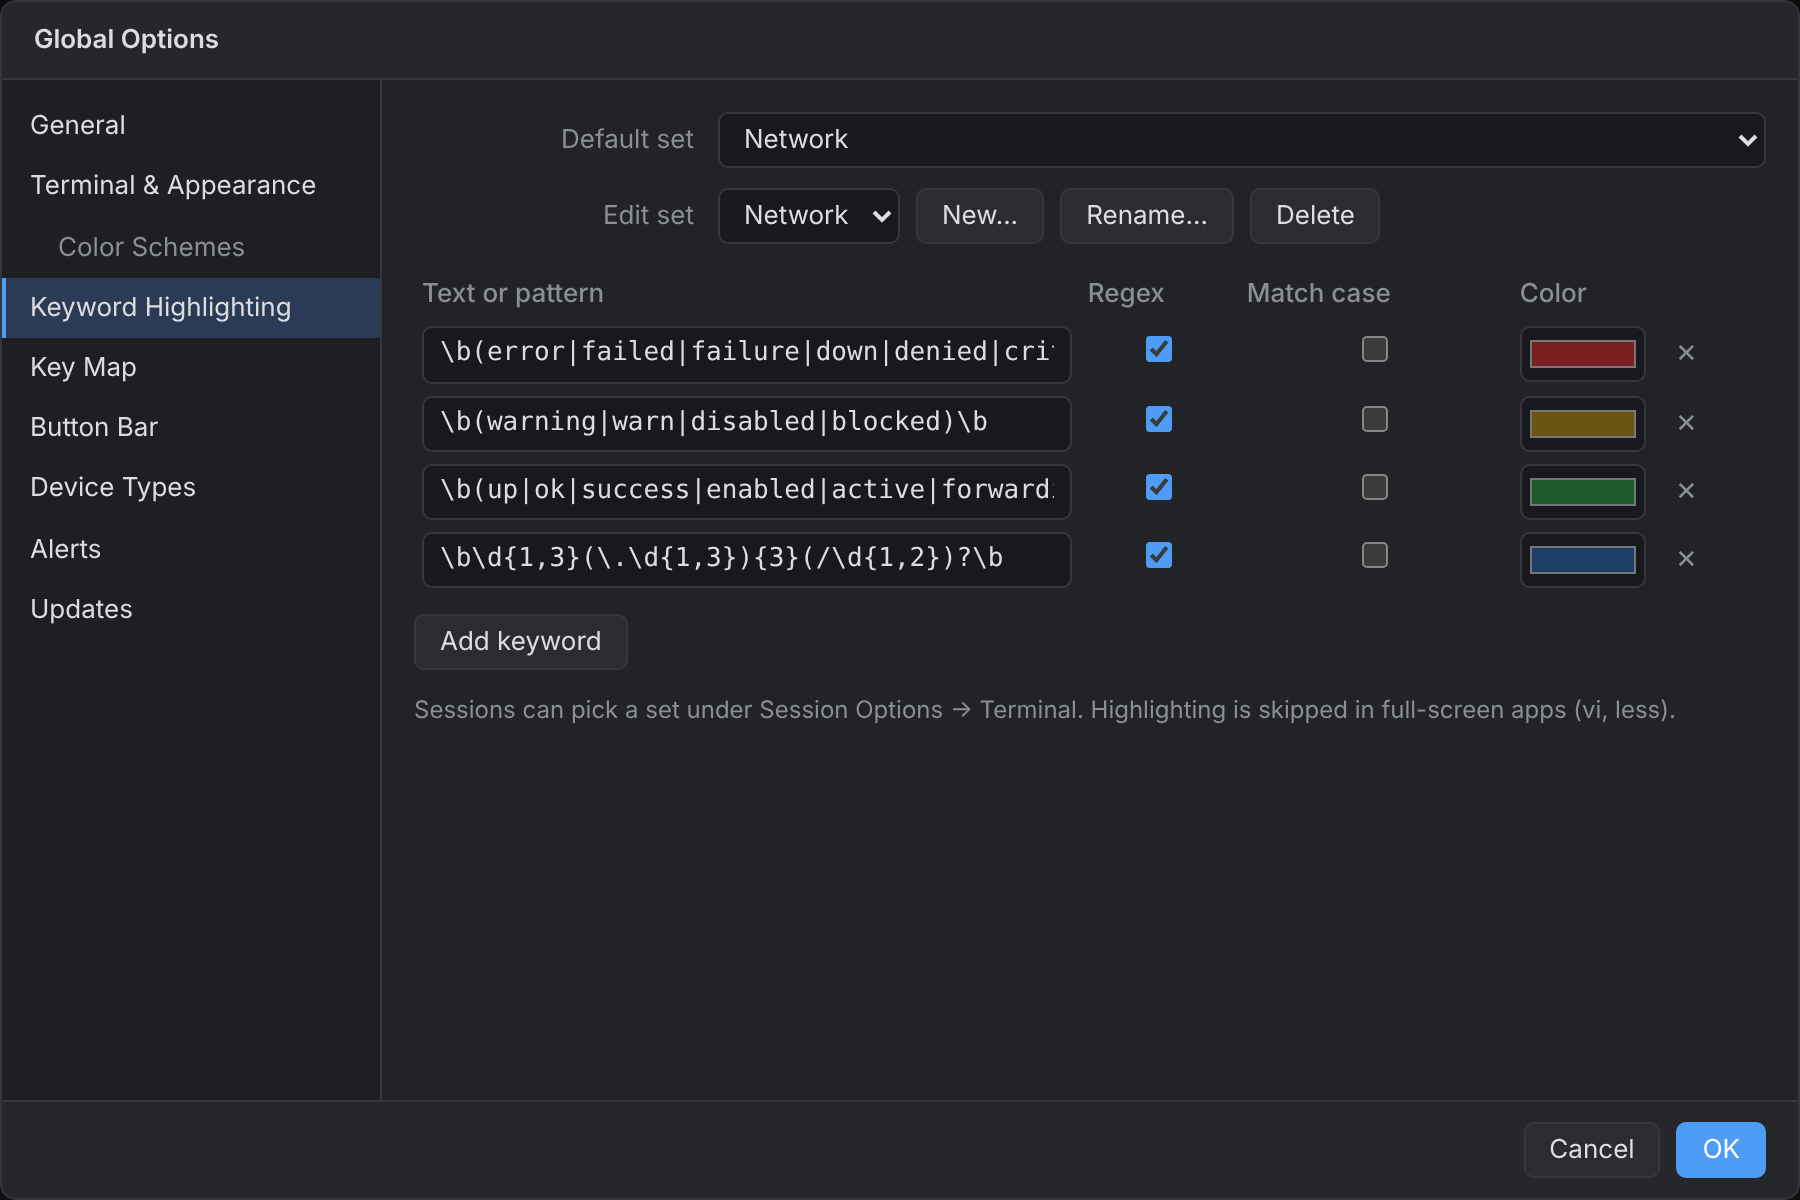
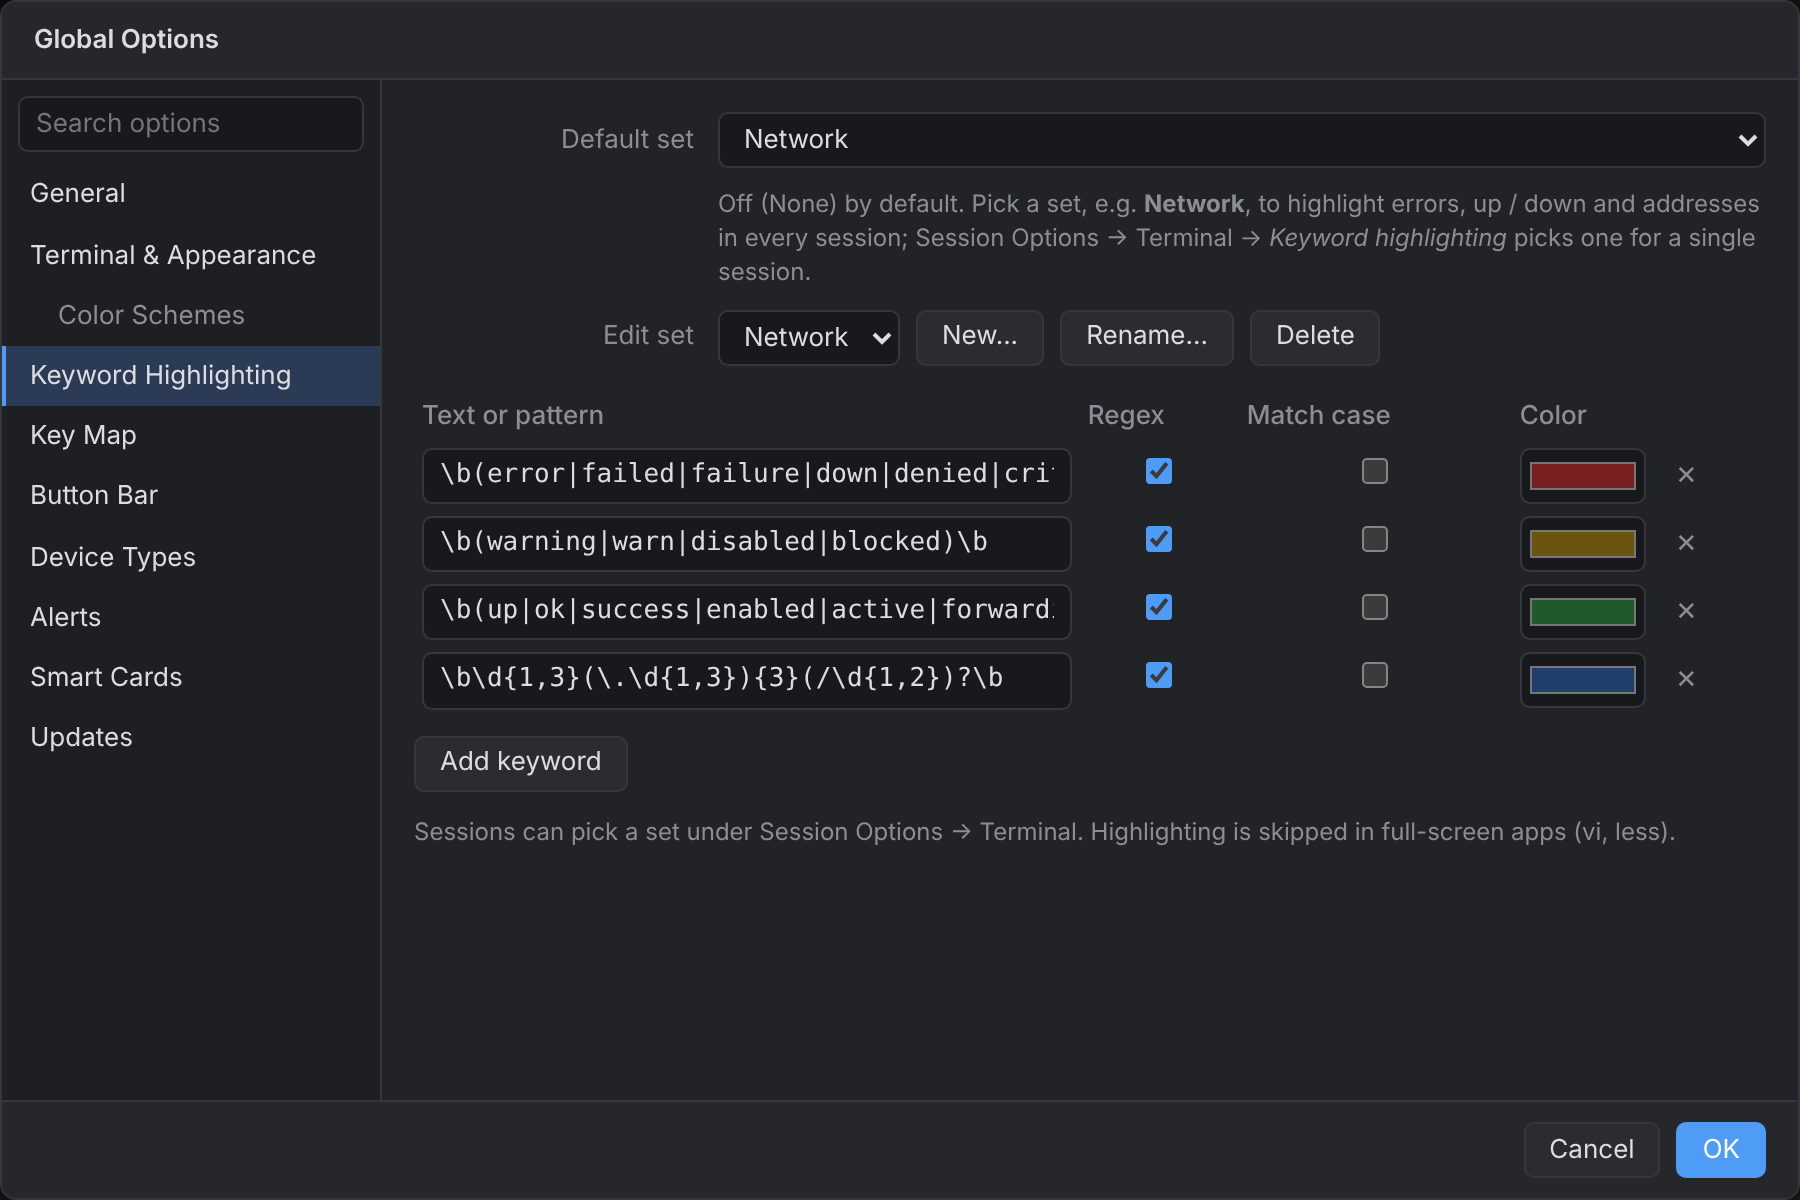
0.20.3: highlighting off by default, discovery progress counts retries separately

diff --git a/frontend/src/app/dialogs/discover-dialog.ts b/frontend/src/app/dialogs/discover-dialog.ts
@@ -58,7 +58,7 @@ const ACK_KEY = 'termwright.discoverAck';
         <div class="bar">
           @if (total()) {
             <progress [max]="total()" [value]="done()"></progress>
-            <span class="hint">{{ done() }} / {{ total() }} addresses · {{ rows().length }} found{{ running() ? '' : stopped() ? ' · stopped' : ' · done' }}{{ rows().length ? ' · double-click a device to connect' : '' }}</span>
+            <span class="hint">{{ done() }} / {{ total() }} addresses{{ again().total ? (running() ? ' · checking ' + again().total + ' device' + (again().total === 1 ? '' : 's') + ' again, more slowly (' + again().done + ' / ' + again().total + ')' : ' · ' + again().total + ' checked again') : '' }} · {{ rows().length }} found{{ running() ? '' : stopped() ? ' · stopped' : ' · done' }}{{ rows().length ? ' · double-click a device to connect' : '' }}</span>
           }
           <span class="spacer"></span>
           @if (rows().length) {
@@ -219,6 +219,8 @@ export class DiscoverDialog implements OnDestroy {
   readonly byType = signal(!!this.prefs.byType);
   readonly running = signal(false);
   readonly stopped = signal(false);
+  /** The second, slower look at devices that showed no login port. */
+  readonly again = signal({ done: 0, total: 0 });
   readonly total = signal(0);
   readonly done = signal(0);
   readonly rows = signal<Row[]>([]);
@@ -354,6 +356,7 @@ export class DiscoverDialog implements OnDestroy {
     this.err.set('');
     this.rows.set([]);
     this.stopped.set(false);
+    this.again.set({ done: 0, total: 0 });
     this.unsub.forEach(u => u());
     this.unsub = [];
     try {
@@ -366,6 +369,7 @@ export class DiscoverDialog implements OnDestroy {
       this.unsub.push(
         this.backend.on('discover:found:' + r.id, (d: DiscoverResult) => this.found(d)),
         this.backend.on('discover:progress:' + r.id, (p: { done: number }) => this.done.set(p.done)),
+        this.backend.on('discover:again:' + r.id, (p: { done: number; total: number }) => this.again.set(p)),
         this.backend.on('discover:done:' + r.id, (stopped: boolean) => { this.running.set(false); this.stopped.set(!!stopped); }),
       );
     } catch (e) { this.err.set(errText(e)); }

diff --git a/frontend/src/app/dialogs/options-dialog.ts b/frontend/src/app/dialogs/options-dialog.ts
@@ -186,6 +186,7 @@ const PAGE_NAMES: Record<Page, string> = { general: 'General', terminal: 'Termin
                   <option value="">None</option>
                   @for (k of s.keywordSets ?? []; track $index) { <option [value]="k.name">{{ k.name }}</option> }
                 </select>
+                <label></label><div class="hint">Off (None) by default. Pick a set, e.g. <b>Network</b>, to highlight errors, up / down and addresses in every session; Session Options → Terminal → <i>Keyword highlighting</i> picks one for a single session.</div>
                 <label>Edit set</label>
                 <div class="row">
                   <select name="kse" [ngModel]="kwIndex()" (ngModelChange)="kwIndex.set(+$event)">

diff --git a/internal/config/config.go b/internal/config/config.go
@@ -65,6 +65,7 @@ type Settings struct {
 	FontSize             int                  `json:"fontSize"`
 	Theme                string               `json:"theme"`               // ui theme: dark | light | system
 	ThemeFollowsSystem   bool                 `json:"themeFollowsSystem"`  // set once when the default became "system" (0.20.1)
+	HighlightOptIn       bool                 `json:"highlightOptIn"`      // set once when keyword highlighting became off by default (0.20.3)
 	HideTerminalBar      bool                 `json:"hideTerminalBar"`     // no bar (timestamps, auto scroll, clear) under SSH / Telnet / local tabs
 	TerminalScheme       string               `json:"terminalScheme"`      // scheme name or "Auto" (follow the UI theme)
 	ForceTermScheme      bool                 `json:"forceTerminalScheme"` // global scheme wins over session schemes
@@ -294,7 +295,7 @@ func Defaults(dataDir string) Settings {
 				{Text: `\b\d{1,3}(\.\d{1,3}){3}(/\d{1,2})?\b`, Regex: true, Color: "#1f3f6b"},
 			},
 		}},
-		DefaultKeywordSet:  "Network",
+		DefaultKeywordSet:  "", // off; the Network set is there to pick
 		Bookmarks:          []Bookmark{},
 		UpdateChannel:      "stable",
 		SFTPCwdAuto:        true,
@@ -378,6 +379,11 @@ func Load(dataDir string) (*Manager, error) {
 	// system (once - a theme chosen afterwards stays).
 	if !m.cur.ThemeFollowsSystem {
 		m.cur.Theme, m.cur.ThemeFollowsSystem, changed = "system", true, true
+	}
+	// Keyword highlighting is off by default since 0.20.3 (once - a default
+	// set picked afterwards stays).
+	if !m.cur.HighlightOptIn {
+		m.cur.DefaultKeywordSet, m.cur.HighlightOptIn, changed = "", true, true
 	}
 	if changed {
 		_ = m.Save(m.cur)

diff --git a/internal/discover/scan.go b/internal/discover/scan.go
@@ -38,6 +38,9 @@ type Options struct {
 	NoWeb     bool // skip reading web pages
 	NoARP     bool // skip the neighbour (ARP) table
 	OUI       OUI  // MAC vendor table (nil = none)
+	// Again is told the progress of the second, slower look at devices that
+	// answered ARP but showed no login port (after the main pass).
+	Again func(done, total int)
 }
 
 // Result describes one device that answered.
@@ -105,6 +108,7 @@ func Scan(ctx context.Context, addrs []netip.Addr, opt Options, found func(Resul
 	self := localAddrs()
 	var mu sync.Mutex
 	done, total := 0, len(addrs)
+	report := progress // the second look reports to opt.Again instead
 	results := map[netip.Addr]*Result{}
 	inRange := map[netip.Addr]bool{}
 	for _, a := range addrs {
@@ -144,8 +148,8 @@ func Scan(ctx context.Context, addrs []netip.Addr, opt Options, found func(Resul
 						found(r)
 					}
 					done++
-					if progress != nil {
-						progress(done, total)
+					if report != nil {
+						report(done, total)
 					}
 					mu.Unlock()
 				}
@@ -193,7 +197,7 @@ func Scan(ctx context.Context, addrs []netip.Addr, opt Options, found func(Resul
 			slow.Parallel = 16
 		}
 		mu.Lock()
-		total += len(again)
+		done, total, report = 0, len(again), opt.Again
 		mu.Unlock()
 		wake(ctx, again, 800*time.Millisecond)
 		run(again, slow)

diff --git a/discover_app.go b/discover_app.go
@@ -52,7 +52,10 @@ func (a *App) DiscoverStart(spec, community string) (map[string]any, error) {
 			cancel()
 			wruntime.EventsEmit(a.ctx, "discover:done:"+id, stopped)
 		}()
-		discover.Scan(ctx, addrs, discover.Options{Community: community, OUI: a.ouiTable()},
+		discover.Scan(ctx, addrs, discover.Options{Community: community, OUI: a.ouiTable(),
+			Again: func(done, total int) {
+				wruntime.EventsEmit(a.ctx, "discover:again:"+id, map[string]int{"done": done, "total": total})
+			}},
 			func(r discover.Result) { wruntime.EventsEmit(a.ctx, "discover:found:"+id, r) },
 			func(done, total int) {
 				wruntime.EventsEmit(a.ctx, "discover:progress:"+id, map[string]int{"done": done, "total": total})

diff --git a/docs/USER_GUIDE.md b/docs/USER_GUIDE.md
@@ -794,7 +794,7 @@ Device types can use a reference too, so a whole fleet logs in with a password t
 ![Color scheme editor](screenshots/schemes.png)
 
 - **Font / cursor**: Global Options → Terminal & Appearance (font family, size, cursor style, blink, scrollback); per-session font in Session Options → Terminal.
-- **Keyword highlighting**: Global Options → Keyword Highlighting. Create sets of words or regular expressions with colors; choose the default set, or a set per session (Session Options → Terminal). The built-in *Network* set marks errors/down (red), warnings (amber), up/ok (green) and IPv4 addresses (blue). Highlighting is skipped in full-screen programs such as `vi` or `less`.
+- **Keyword highlighting** (off by default): Global Options → Keyword Highlighting. Create sets of words or regular expressions with colors; choose the default set (*None* = off), or a set per session (Session Options → Terminal). Only the rows on screen are highlighted, so long sessions stay fast. The built-in *Network* set marks errors/down (red), warnings (amber), up/ok (green) and IPv4 addresses (blue). Highlighting is skipped in full-screen programs such as `vi` or `less`.
 
 ![Keyword Highlighting](screenshots/keywords.png)
 
@@ -939,4 +939,4 @@ Back up the data folder to back up everything except passwords.
 | Import: the .xml file is not listed (Windows) | Choose **All files (\*.\*)** in the file-type list of the picker, and check that the source is *XML settings export*. |
 | Pasting into a switch drops characters | Set *Paste line delay* (e.g. 50 ms) in Global Options → Terminal. |
 | ZMODEM does nothing | Install `lrzsz` on the remote host; check the Downloads folder in Global Options. |
-| Highlighting is missing | Check the session's keyword set (Terminal page) and the default set; it is off in full-screen apps. |
+| Highlighting is missing | It is off by default: pick a default set in Global Options → Keyword Highlighting (e.g. *Network*) or a set in the session's Terminal page; it is also off in full-screen apps. |

diff --git a/docs/FEATURES.md b/docs/FEATURES.md
@@ -146,7 +146,7 @@ Everything Termwright does, one line each. Details and screenshots are in the [U
 - **Auto scroll** on by default; turn it off (toolbar, right-click, Edit menu or per session) to keep the view still while output arrives.
 - **Copy / paste**: copy on select, paste on right-click, Shift+Insert / Ctrl+Insert, copy as HTML with colors.
 - **Paste safety**: preview and confirm multi-line pastes; paste line delay for slow devices.
-- **Keyword highlighting**: sets of words or regular expressions with colors, per session or default (built-in network set: up/down, errors…).
+- **Keyword highlighting** (off by default): sets of words or regular expressions with colors, per session or default (built-in network set: up/down, errors…); only the rows on screen are marked, so long sessions stay fast.
 - **Clickable links** and OSC 8 hyperlinks.
 - **Timestamps**: local time with milliseconds in front of each output line (display only), per tab or on by default for a session.
 - **Zoom** (`Mod +`, `Mod -`, `Mod 0`), per-session font and size, cursor style and blink.

diff --git a/CHANGELOG.md b/CHANGELOG.md
@@ -7,6 +7,8 @@ All notable changes to Termwright. Each release on GitHub shows its section of t
 ## 0.20.3 (2026-10-27)
 
 * **Typing and Backspace no longer lag in long sessions**: keyword highlighting marked every match in the whole scrollback, and the terminal redrew all of those marks on every key - after a few thousand lines of output with addresses and up/down (over 10,000 marks) each key cost several times more, and holding Backspace kept deleting after the key was released. Only the rows in view are highlighted now (about a hundred marks, whatever the length of the session); scrolling up highlights the rows as they come into view.
+* **Keyword highlighting is off by default** (existing settings switch once; pick a default set such as *Network* in Global Options → Keyword Highlighting, or a set per session).
+* Discover Devices: the address count no longer goes past the total (260 / 254); devices checked a second time are counted separately ("6 checked again").
 
 ## 0.20.2 (2026-10-27)
 
